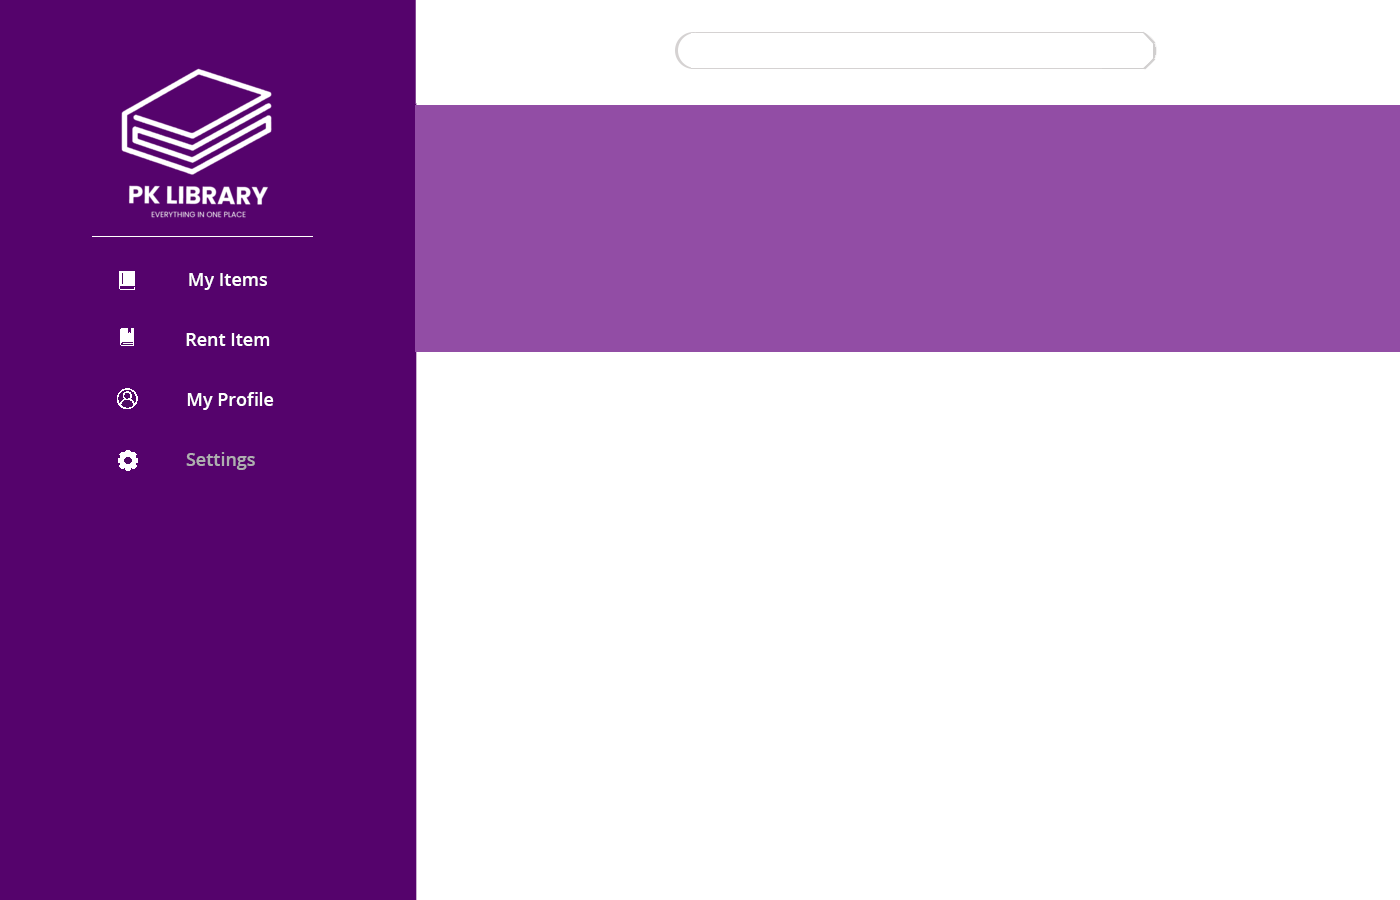
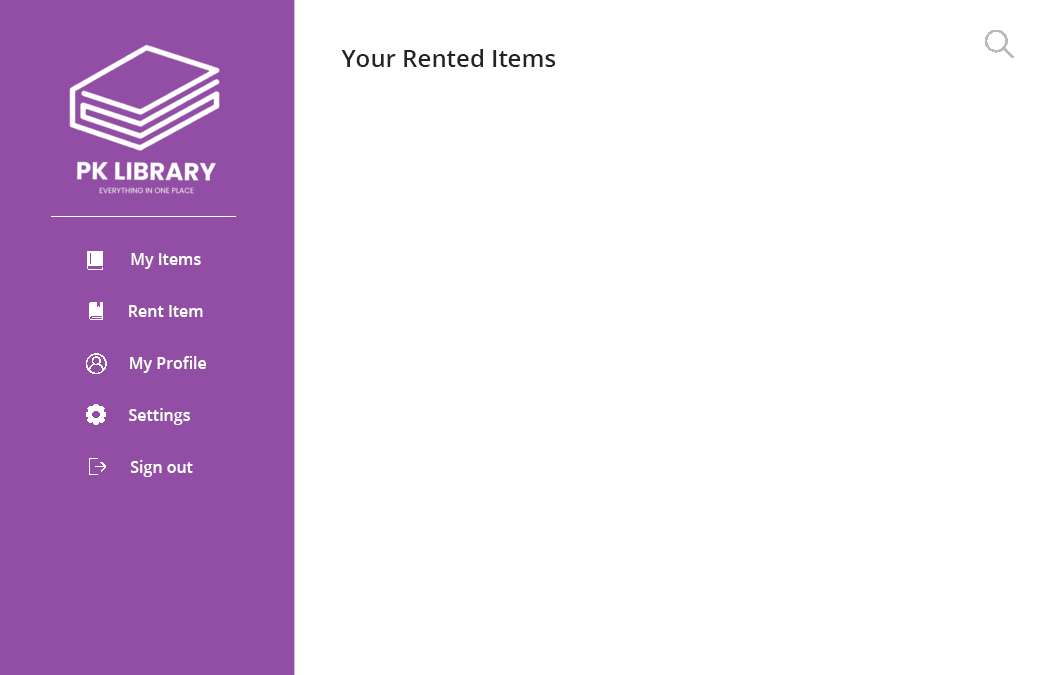
Created MyItems scene

diff --git a/src/main/java/org/example/MyItemsController.java b/src/main/java/org/example/MyItemsController.java
@@ -1,0 +1,65 @@
+package org.example;
+
+import com.jfoenix.controls.JFXButton;
+import javafx.event.ActionEvent;
+import javafx.fxml.FXML;
+import javafx.fxml.FXMLLoader;
+import javafx.scene.Node;
+import javafx.scene.Parent;
+import javafx.scene.Scene;
+import javafx.stage.Stage;
+
+import java.io.IOException;
+
+public class MyItemsController {
+    @FXML
+    private JFXButton myItemsButton;
+    @FXML
+    private JFXButton rentItemButton;
+    @FXML
+    private JFXButton myProfileButton;
+    @FXML
+    private JFXButton settingsButton;
+    @FXML
+    private JFXButton signOutButton;
+
+    public void changeSceneToMyItems(ActionEvent event) throws IOException {
+        Parent root = FXMLLoader.load(getClass().getResource("[2] MyItemsScene.fxml"));
+        Scene LoginReminder = new Scene(root);
+        Stage ourStage = (Stage) ((Node) event.getSource()).getScene().getWindow();
+        ourStage.setScene(LoginReminder);
+        ourStage.show();
+    }
+
+    public void changeSceneToRentItem(ActionEvent event) throws IOException {
+        Parent root = FXMLLoader.load(getClass().getResource("[2] RentItemScene.fxml"));
+        Scene LoginReminder = new Scene(root);
+        Stage ourStage = (Stage) ((Node) event.getSource()).getScene().getWindow();
+        ourStage.setScene(LoginReminder);
+        ourStage.show();
+    }
+
+    public void changeSceneToMyProfile(ActionEvent event) throws IOException {
+        Parent root = FXMLLoader.load(getClass().getResource("[2] MyProfileScene.fxml"));
+        Scene LoginReminder = new Scene(root);
+        Stage ourStage = (Stage) ((Node) event.getSource()).getScene().getWindow();
+        ourStage.setScene(LoginReminder);
+        ourStage.show();
+    }
+
+    public void changeSceneToSettings(ActionEvent event) throws IOException {
+        Parent root = FXMLLoader.load(getClass().getResource("[2] SettingsScene.fxml"));
+        Scene LoginReminder = new Scene(root);
+        Stage ourStage = (Stage) ((Node) event.getSource()).getScene().getWindow();
+        ourStage.setScene(LoginReminder);
+        ourStage.show();
+    }
+
+    public void changeSceneToSignOut(ActionEvent event) throws IOException {
+        Parent root = FXMLLoader.load(getClass().getResource("[1] LoginScene.fxml"));
+        Scene LoginReminder = new Scene(root);
+        Stage ourStage = (Stage) ((Node) event.getSource()).getScene().getWindow();
+        ourStage.setScene(LoginReminder);
+        ourStage.show();
+    }
+}

diff --git a/src/main/java/org/example/LoginSceneController.java b/src/main/java/org/example/LoginSceneController.java
@@ -70,12 +70,10 @@ public class LoginSceneController {
             th.start();
         }
         else{
-            Parent root = FXMLLoader.load(getClass().getResource("[2] WelcomeScene.fxml"));
+            Parent root = FXMLLoader.load(getClass().getResource("[2] MyItemsScene.fxml"));
             Scene LoginReminder = new Scene(root);
 
             Stage ourStage = (Stage)((Node)event.getSource()).getScene().getWindow();
-            ourStage.setX(260);
-            ourStage.setY(60);
             ourStage.setScene(LoginReminder);
             ourStage.show();
         }

diff --git a/src/main/java/org/example/MyProfileController.java b/src/main/java/org/example/MyProfileController.java
@@ -1,0 +1,4 @@
+package org.example;
+
+public class MyProfileController {
+}

diff --git a/src/main/java/org/example/RentItemController.java b/src/main/java/org/example/RentItemController.java
@@ -1,0 +1,4 @@
+package org.example;
+
+public class RentItemController {
+}

diff --git a/src/main/java/org/example/SettingsController.java b/src/main/java/org/example/SettingsController.java
@@ -1,0 +1,4 @@
+package org.example;
+
+public class SettingsController {
+}

diff --git a/src/main/java/org/example/SignoutController.java b/src/main/java/org/example/SignoutController.java
@@ -1,0 +1,4 @@
+package org.example;
+
+public class SignoutController {
+}
